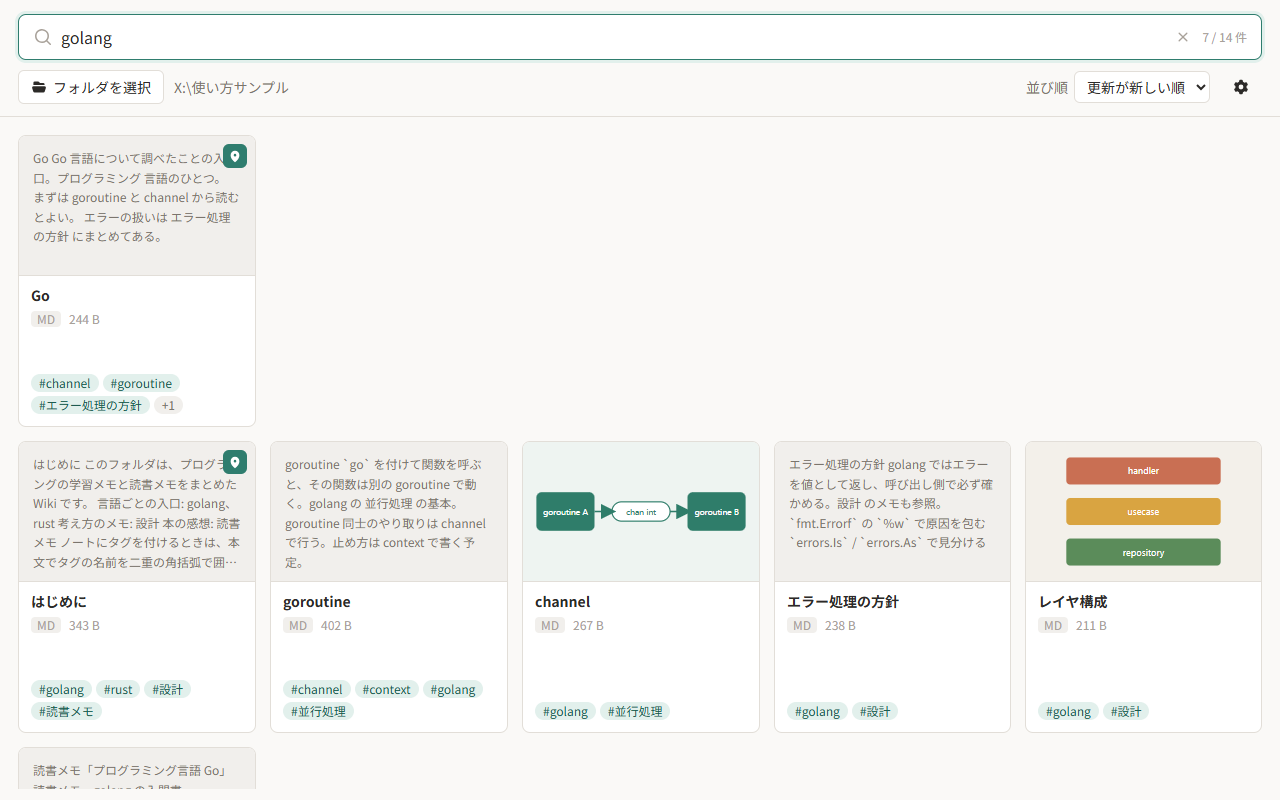
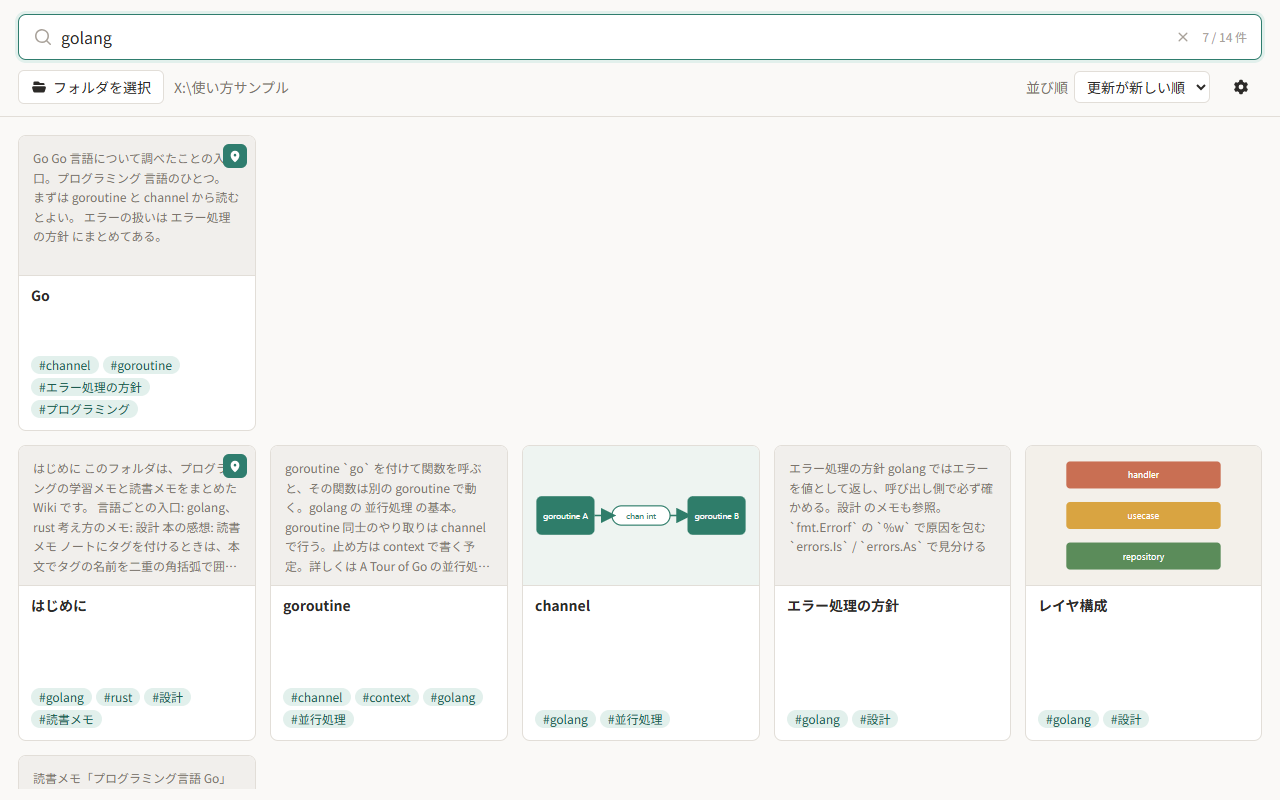
docs: 最近の変更に合わせてドキュメントを直し、画像と GIF を撮り直す
- 検索結果の上の作成ボタンでもファイルを作ることを、README と開発ドキュメントの
  「ファイルを作る場面」に足す。README の検索の節にも作成ボタンを書く
- クラウド上にしか無いファイルの説明から、画面に出なくなったサイズを外す
- 要件定義書に、カードには拡張子やファイルサイズを出さないことを書く
- 開発ドキュメントに、リンクの描き分け（内部リンクと外部リンク）と文字数の
  数え方を書く
- 外部リンクと文字数が写るよう、サンプルのノートで使い方の画像を撮り直す。
  GIF には、まだ無いタグで検索して作成ボタンが出る場面を足す

diff --git a/docs/開発ドキュメント.md b/docs/開発ドキュメント.md
@@ -74,8 +74,10 @@ git push origin main v0.1.0
 - 一覧・検索・タグ管理の対象は、開いたフォルダの直下にある Markdown（`.md` / `.markdown`）だけです。走査もウォッチャーもサブフォルダの中と Markdown 以外のファイルは無視します（ウォッチャーは例外として `.taggo.json` の変更を拾います）。
 - ノートのファイル名（拡張子を除く）がタグを表します（`model.PageTag`）。store はタグのキー（`model.TagKey`。小文字にして空白の連なりをまとめたもの）からそのページを引く索引 `tagPages` を持ちます。サブフォルダを読まないのは、同じ名前のページがフォルダ違いで並ばないようにするためです。
 - ノートのタグは、本文の `[[タグ]]`（`meta.bodyTags`。コードブロックとインラインコードの中は除く）だけを `model.Entry.Tags` に入れます。Front Matter は使いません。先頭の `---` で囲んだブロックは、見出しや抜粋に紛れ込まないよう `meta.StripFrontMatter` で本文から外すだけで、中身は読みません（YAML のライブラリも使っていません）。
-- taggo はノートを書き換えません。タグの編集・一括編集の機能は持たず、ファイルを新しく作るのは「まだ無いページ」から md ファイルを作るときと、`.taggo.json` だけです。
+- taggo はノートを書き換えません。タグの編集・一括編集の機能は持たず、ファイルを新しく作るのは「まだ無いページ」か検索結果の上の作成ボタンから md ファイルを作るときと、`.taggo.json` だけです。
 - 本文の `[[タグ]]` は、プレビューでは remark プラグイン（`frontend/src/bracketTags.ts`）がリンクに変え、`data-tag` 属性でふつうのリンクと見分けます。
+- プレビューのリンクは `MarkdownPreview` の `a` で 3 種類に分けて描きます。`[[タグ]]` とノートへのリンクはアプリの中でたどるので下線を付けず（`INTERNAL_LINK`）、`http(s):` と `mailto:` の外部リンクは下線と末尾の「↗」を付けて（`EXTERNAL_LINK`。画像を囲むリンクには「↗」を付けない）、既定のブラウザで開きます（`BrowserOpenURL`。`target="_blank"` だと WebView2 が自前のウィンドウを開くため）。WebView にはステータスバーが無いので、外部リンクの行き先はツールチップで見せます。
+- プレビューの下端の文字数は、`MarkdownPreview` が読み込んだ本文を `DetailPanel` が受け取って数えます。改行は数えず、絵文字や結合文字が 2 文字以上にならないよう `Intl.Segmenter` で書記素ごとに数えます。
 - まだ無いページ：`[[タグ]]` や行き先の無い Markdown のリンクをたどると、`App.TagPage` / `App.LinkedPage` が「まだ無いページ」のエントリ（`model.NewMissing`。`Missing` が true で、BuntDB には載せない）を返します。画面はそれを一覧の外のノートとして開き、本文の代わりに「md ファイルを作成する」ボタンを出します。検索結果の先頭にタグのページが無いとき（`Result.Head` が 0）も、画面は検索語で `App.TagPage` を呼び、まだ無いページが返れば結果の上に作成ボタン（`NewTagPageBar`）を出します。
   - `App.RelatedPages` は、まだ無いページのパスでも `store.Related` に仮のエントリを渡すので、そのページを指しているノート（リンク元）が並びます。
   - ボタンは `App.CreatePage` を呼び、見出しだけのファイルを作ってエディタで開きます。ウォッチャーが作ったファイルを拾うと、同じパスのエントリが届くので、画面は開いているページを本物のノートに差し替えます。

diff --git a/docs/要件定義書.md b/docs/要件定義書.md
@@ -24,7 +24,7 @@
   - 例外として、一覧のピン留めは、開いたフォルダの直下の `.taggo.json` に保存する。そのフォルダの Wiki の見せ方なので、ノートと一緒に同期・バックアップされるようにするため。taggo の知らない項目は書き込むときも残し、JSON として壊れていれば書き換えない。
 - **勝手に通信しない方針**
   - クラウド同期サービスが置いた「中身がまだローカルに無いファイル」は、ファイル属性から判別し、taggo 側からは一切開かない。走査だけで同期フォルダ全体をダウンロードさせない。
-  - 該当ノートは一覧には出す（名前・サイズ・更新日時のみ）。タグの読み取り・プレビューは行わず、利用者が明示的に取り込みを指示したときだけ読み込む。
+  - 該当ノートは一覧には出す（ディレクトリの列挙で分かる名前と更新日時のみを使い、カードには「クラウド上のみ」と表示する）。タグの読み取り・プレビューは行わず、利用者が明示的に取り込みを指示したときだけ読み込む。
   - 本文に埋め込まれた画像の中身がクラウド上にしか無い場合は、画像を配信しない（ノートを開いただけでダウンロードを始めない）。
   - 走査のあとで「オンラインのみ」へ戻ったファイルも開かないよう、中身を開く直前に属性を確かめ直す。
   - `.taggo.json` の中身がクラウド上にしか無いときは、ピン留めを読み込まない。
@@ -50,7 +50,7 @@
 - **カード型ビジュアルグリッド**
   - 走査された全ノートを「カード」としてグリッド表示する。
   - 検索していないときは、ピン留めしたノートをピン留めした順に先頭へ並べ、残りのカードは次の行から並べる。検索中はピン留めを先頭にしない（検索語と同じ名前のタグのページを先頭の別枠とする）。
-  - カードには見出しと本文冒頭の抜粋を表示する。
+  - カードには見出しと本文冒頭の抜粋、タグだけを表示する。拡張子やファイルサイズは表示しない。
   - 本文で画像か YouTube 動画を使っているノートは、抜粋の代わりに、本文で最初に現れる画像または動画のサムネイルを表示する。画像を読み込めないときは抜粋に戻す。
   - 各カードの下部に、ノートのタグ（本文の `[[タグ]]`）をバッジ（`#tag`）として一覧表示する。4 行に収まらないタグは「+N」と数で示し、タグ欄に乗ったときに全部を重ねて表示する。
 - **インタラクション＆操作性**
